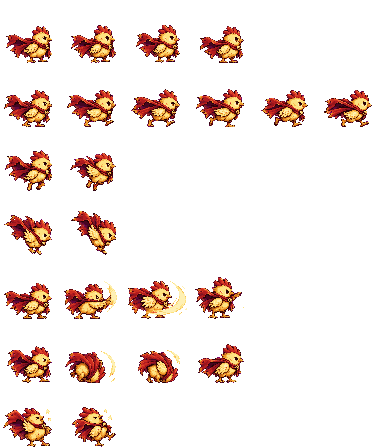
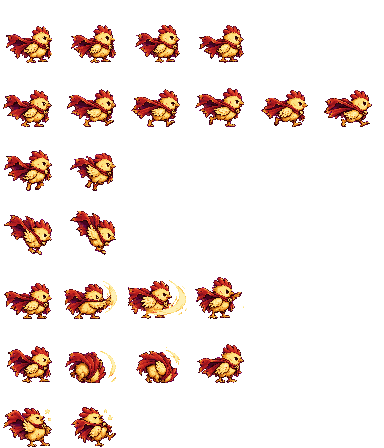
Patas del Pollito, efectos de ataques y King Chiki más difícil
- Pollito: las líneas finas (patas) ya no se pierden al reducir el dibujo
  (--min-cover 0.3) y la carrera va a 14 cuadros/s para que no patine.
- Efectos: arco del golpe con escudo, anillo y polvo del golpe al suelo,
  columna de luz de ¡POR AHÍ NO!, raíces más altas, sacudida de cámara y
  pausa breve en cada golpe.
- King Chiki: 260 de vida; fase II mucho más rápida y con menos aperturas,
  raíces más largas y rápidas, furia más corta, y tocarlo hace daño.
- Prueba de espinas: pone al Pollito encima en vez de depender del retroceso.

Claude-Session: https://claude.ai/code/session_01WQsJFqYbZpAUH5QgXnu6Dm

diff --git a/scripts/art/sheet_to_frames.py b/scripts/art/sheet_to_frames.py
@@ -7,7 +7,7 @@ lienzo fijo (pies abajo).
 Uso (Pollito: cuadros sueltos sobre magenta):
   python3 scripts/art/sheet_to_frames.py brand/pollito/hoja-detallada.webp \
       game/assets/pollito/pollito.png game/assets/pollito/pollito.json \
-      --scale 3.5 --colors 24 --frame 64 --body-from-right 20 \
+      --scale 3.5 --colors 24 --frame 64 --body-from-right 20 --min-cover 0.3 \
       --rows idle:4 run:6 jump:2 fall:2 attack:4 dodge:4 hurt:2
 Uso (King Chiki: hoja en cuadrícula de 4x8, dibujo detallado):
   python3 scripts/art/sheet_to_frames.py <hoja.webp> <salida.png> <salida.json> \
@@ -114,7 +114,7 @@ def best_grid(labels, mask, scale):
     return best[1], best[2]
 
 
-def downsample(labels, mask, scale, oy, ox, background):
+def downsample(labels, mask, scale, oy, ox, background, min_cover=0.5):
     ys = np.arange(oy, labels.shape[0] - scale / 2, scale)
     xs = np.arange(ox, labels.shape[1] - scale / 2, scale)
     out = np.full((len(ys), len(xs)), background)
@@ -122,7 +122,7 @@ def downsample(labels, mask, scale, oy, ox, background):
         for i, x in enumerate(xs):
             sl = (slice(int(y), int(y + scale)), slice(int(x), int(x + scale)))
             m = mask[sl]
-            if m.mean() >= 0.5:  # más de la mitad del bloque es personaje
+            if m.mean() >= min_cover:  # parte del bloque que debe ser personaje para dibujarlo
                 out[j, i] = np.bincount(labels[sl][m]).argmax()
     return out
 
@@ -141,6 +141,8 @@ def main():
                     help='beak: alinea desde el borde derecho (Pollito); feet: centra los pies')
     ap.add_argument('--body-from-right', type=int, default=15)
     ap.add_argument('--flip', nargs='*', default=[], help='fila:columna (desde 0) de cuadros que miran al lado contrario')
+    ap.add_argument('--min-cover', type=float, default=0.5,
+                    help='parte de un bloque que debe ser dibujo; más bajo conserva líneas finas (patas)')
     args = ap.parse_args()
     FRAME = args.frame
     flips = {tuple(int(v) for v in f.split(':')) for f in args.flip}
@@ -177,7 +179,7 @@ def main():
             lab, m = labels[y0:y1, x0:x1], fg[y0:y1, x0:x1]
             # En dibujos de bloques grandes se busca la cuadrícula; en dibujos finos no hace falta.
             oy, ox = best_grid(lab, m, args.scale) if args.scale >= 3 else (0, 0)
-            small = downsample(lab, m, args.scale, oy, ox, bg)
+            small = downsample(lab, m, args.scale, oy, ox, bg, args.min_cover)
             ys, xs = np.nonzero(small != bg)
             small = small[ys.min():ys.max() + 1, xs.min():xs.max() + 1]
             if (r, c) in flips:
